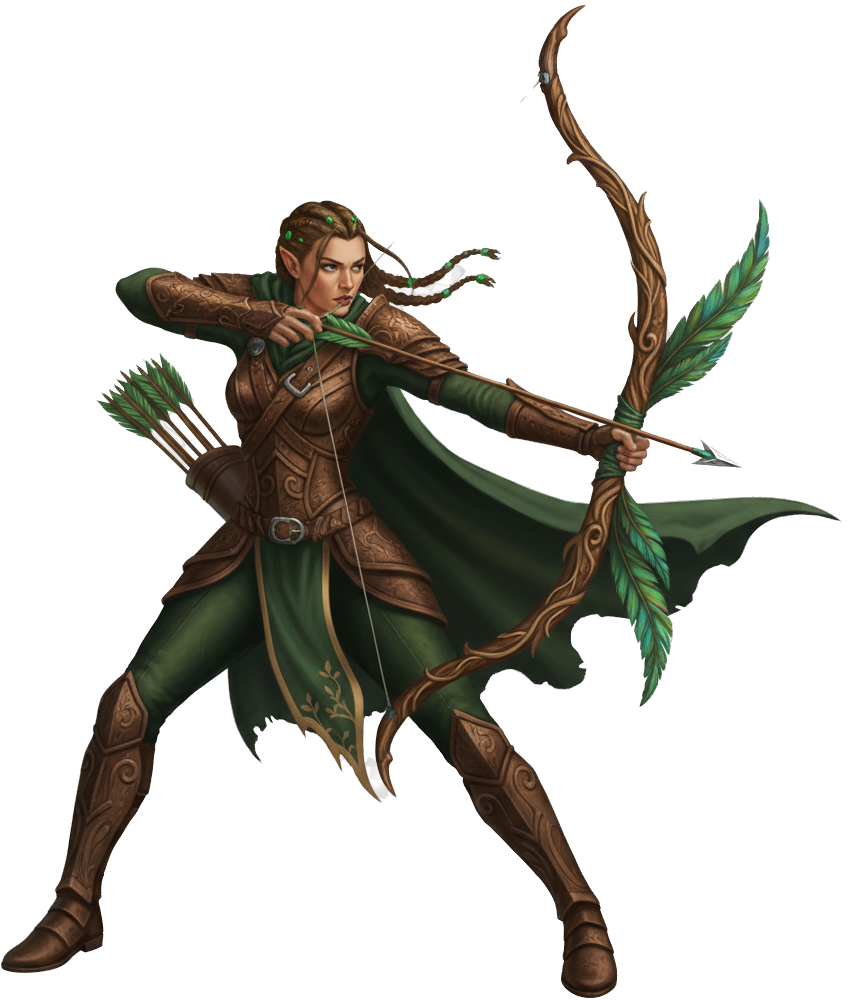
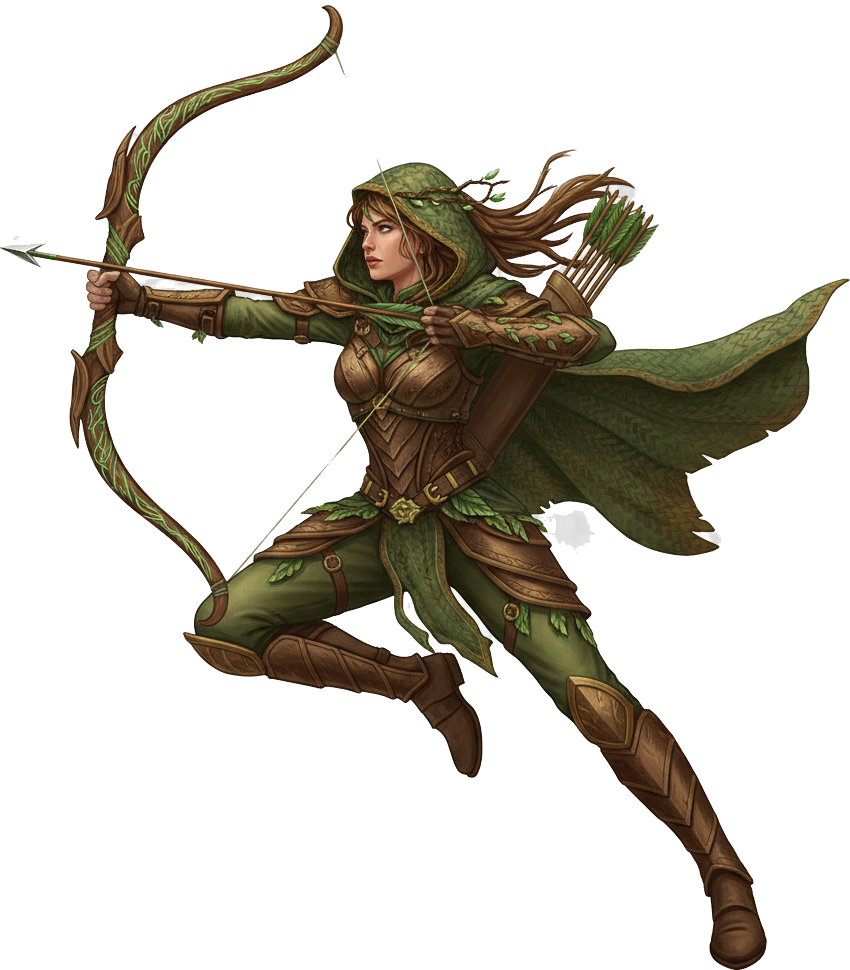
v119: Make a character2 Female version and add a M/F toggle button for that character the character male must stay the same as current character2.png image, but the new female version should be a new generate image similar baseed on the male version Be sur

diff --git a/ui.js b/ui.js
@@ -3,21 +3,11 @@ function initializeCharacterSelection() {
     const characterSlots = document.querySelectorAll('.character-slot');
 
     characterSlots.forEach(slot => {
+        // Initial gender setup
+        slot.dataset.variant = 'Male'; // Default to Male for all slots
+
         // Initial color shader application
         applyColorShader(slot);
-        
-        // Initial gender toggle visibility check
-        const initialCharacter = characters[parseInt(slot.dataset.characterIndex, 10)];
-        const genderToggle = slot.querySelector('.gender-toggle');
-        if (genderToggle) {
-             if (initialCharacter.img_female) {
-                genderToggle.style.display = 'inline-block';
-                slot.dataset.gender = 'male'; // Default
-                genderToggle.textContent = '♂';
-            } else {
-                genderToggle.style.display = 'none';
-            }
-        }
 
         // Arrow click listeners for character swapping
         const leftArrow = slot.querySelector('.left-arrow');
@@ -36,53 +26,78 @@ function initializeCharacterSelection() {
             slot.dataset.characterIndex = currentIndex;
             updateCharacterSlot(slot, characters[currentIndex], 'right');
         });
-        
+
         // Gender toggle listener
-        if (genderToggle) {
-            genderToggle.addEventListener('click', () => {
-                const currentGender = slot.dataset.gender || 'male';
-                const newGender = currentGender === 'male' ? 'female' : 'male';
-                slot.dataset.gender = newGender;
-                genderToggle.textContent = newGender === 'male' ? '♂' : '♀';
-                
-                const characterIndex = parseInt(slot.dataset.characterIndex, 10);
-                const character = characters[characterIndex];
-                
-                // Animate character image swap
-                const imageWrapper = slot.querySelector('.character-image-wrapper');
-                const oldImage = imageWrapper.querySelector('.character-image');
-                const color = slot.dataset.color;
-                
-                const newImage = document.createElement('img');
-                const baseImgSrc = newGender === 'female' ? character.img_female : character.img;
-                const cachedSrc = characterImageCache[baseImgSrc]?.[color];
-                newImage.src = cachedSrc || baseImgSrc;
-                
-                newImage.alt = character.name;
-                newImage.className = 'character-image';
-                newImage.dataset.baseHue = character.baseHue;
-                
-                newImage.style.opacity = '0';
-                imageWrapper.appendChild(newImage);
+        const genderToggle = slot.querySelector('.gender-toggle');
+        genderToggle.addEventListener('click', () => {
+            const currentIndex = parseInt(slot.dataset.characterIndex, 10);
+            const character = characters[currentIndex];
+            if (!character.variants) return;
 
-                if (!cachedSrc) {
-                    applyColorShaderToImage(newImage, color);
-                }
+            // Toggle variant
+            const currentVariant = slot.dataset.variant;
+            const newVariant = currentVariant === 'Male' ? 'Female' : 'Male';
+            slot.dataset.variant = newVariant;
 
-                setTimeout(() => {
-                    oldImage.style.opacity = '0';
-                    newImage.style.opacity = '1';
-                }, 10);
-
-                setTimeout(() => {
-                    if (oldImage.dataset.blobUrl) {
-                        URL.revokeObjectURL(oldImage.dataset.blobUrl);
-                    }
-                    oldImage.remove();
-                }, 300); // fade duration
-            });
-        }
+            // Update button text immediately
+            genderToggle.textContent = newVariant === 'Female' ? '♀' : '♂';
+            
+            // Update image with animation
+            switchCharacterVariant(slot, character, newVariant);
+        });
     });
+}
+
+function switchCharacterVariant(slot, character, newVariant) {
+    const imageWrapper = slot.querySelector('.character-image-wrapper');
+    const oldImage = imageWrapper.querySelector('.character-image');
+    const color = slot.dataset.color;
+    const genderToggle = slot.querySelector('.gender-toggle');
+
+    // Disable toggle during animation
+    genderToggle.disabled = true;
+
+    const newImgSrc = character.variants[newVariant].img;
+
+    // Create new image
+    const newImage = document.createElement('img');
+    const cachedSrc = characterImageCache[newImgSrc]?.[color];
+    newImage.src = cachedSrc || newImgSrc;
+    
+    newImage.alt = character.name;
+    newImage.className = 'character-image';
+    newImage.dataset.baseHue = character.baseHue;
+    
+    // Position new image for entry animation (fade)
+    newImage.style.opacity = '0';
+    imageWrapper.appendChild(newImage);
+
+    if (!cachedSrc) {
+        applyColorShaderToImage(newImage, color);
+    }
+    
+    // Animate old image out, new image in (cross-fade)
+    oldImage.style.transition = 'opacity 0.25s ease-in-out';
+    newImage.style.transition = 'opacity 0.25s ease-in-out';
+    
+    oldImage.style.opacity = '0';
+    setTimeout(() => {
+        newImage.style.opacity = '1';
+    }, 50);
+
+
+    // After animation is complete, clean up
+    setTimeout(() => {
+        if (oldImage.dataset.blobUrl) {
+            URL.revokeObjectURL(oldImage.dataset.blobUrl);
+        }
+        oldImage.remove();
+        
+        // Re-enable toggle
+        genderToggle.disabled = false;
+        document.dispatchEvent(new CustomEvent('relic-cursor-refresh'));
+
+    }, ANIMATION_DURATION);
 }
 
 // Set up the start overlay

diff --git a/characters.js b/characters.js
@@ -4,9 +4,12 @@ const characters = [
     { 
         name: 'Archer', 
         img: '/character2.png', 
-        img_female: '/character2_female.png',
         baseHue: 120, 
-        stats: { strength: 6, speed: 9, magic: 4, armour: 5 } 
+        stats: { strength: 6, speed: 9, magic: 4, armour: 5 },
+        variants: {
+            'Male': { img: '/character2.png' },
+            'Female': { img: '/character2_female.png' }
+        }
     },
     { name: 'Wizard', img: '/character3.png', baseHue: 60, stats: { strength: 3, speed: 6, magic: 10, armour: 3 } },
     { name: 'Valkyrie', img: '/character4.png', baseHue: 0, stats: { strength: 7, speed: 7, magic: 6, armour: 6 } }
@@ -25,19 +28,6 @@ function updateCharacterSlot(slot, character, direction) {
     const nameText = slot.querySelector('.character-name-text');
     const color = slot.dataset.color;
 
-    // Gender Toggle logic
-    const genderToggle = slot.querySelector('.gender-toggle');
-    if (character.img_female) {
-        genderToggle.style.display = 'inline-block';
-        if (!slot.dataset.gender) {
-            slot.dataset.gender = 'male'; // Default to male
-        }
-        genderToggle.textContent = slot.dataset.gender === 'male' ? '♂' : '♀';
-    } else {
-        genderToggle.style.display = 'none';
-        delete slot.dataset.gender;
-    }
-
     // Disable arrows during animation
     arrows.forEach(arrow => arrow.disabled = true);
     document.dispatchEvent(new CustomEvent('relic-cursor-refresh'));
@@ -45,11 +35,18 @@ function updateCharacterSlot(slot, character, direction) {
     // Fade out name
     nameText.classList.add('fade-out');
 
+    // Handle variants
+    let characterImgSrc = character.img;
+    if (character.variants) {
+        // If switching to a character with variants, default to Male
+        const currentVariant = slot.dataset.variant || 'Male';
+        characterImgSrc = character.variants[currentVariant].img;
+    }
+
     // Create new image
     const newImage = document.createElement('img');
-    const baseImgSrc = slot.dataset.gender === 'female' ? character.img_female : character.img;
-    const cachedSrc = characterImageCache[baseImgSrc]?.[color];
-    newImage.src = cachedSrc || baseImgSrc; // Use cached image if available
+    const cachedSrc = characterImageCache[characterImgSrc]?.[color];
+    newImage.src = cachedSrc || characterImgSrc; // Use cached image if available
     
     newImage.alt = character.name;
     newImage.className = 'character-image';
@@ -85,6 +82,15 @@ function updateCharacterSlot(slot, character, direction) {
         slot.querySelector('.magic').textContent = `Magic: ${character.stats.magic}`;
         slot.querySelector('.armour').textContent = `Armour: ${character.stats.armour}`;
         
+        // Update gender toggle visibility
+        const genderToggle = slot.querySelector('.gender-toggle');
+        if (character.variants) {
+            genderToggle.style.display = 'block';
+            genderToggle.textContent = slot.dataset.variant === 'Female' ? '♀' : '♂';
+        } else {
+            genderToggle.style.display = 'none';
+        }
+
         // Re-enable arrows
         arrows.forEach(arrow => arrow.disabled = false);
         document.dispatchEvent(new CustomEvent('relic-cursor-refresh'));
@@ -123,9 +129,11 @@ async function preloadAllCharacterImages() {
     const promises = [];
 
     for (const character of characters) {
-        const imagesToLoad = [character.img];
-        if (character.img_female) {
-            imagesToLoad.push(character.img_female);
+        const imagesToLoad = [];
+        if (character.variants) {
+            Object.values(character.variants).forEach(variant => imagesToLoad.push(variant.img));
+        } else {
+            imagesToLoad.push(character.img);
         }
 
         for (const imgSrc of imagesToLoad) {
@@ -137,8 +145,9 @@ async function preloadAllCharacterImages() {
             const loadPromise = new Promise((resolve, reject) => {
                 img.onload = () => {
                     for (const color of colors) {
-                        // Pass imgSrc to processAndCacheImage
-                        const colorPromise = processAndCacheImage(img, character, color, imgSrc)
+                        // The character data passed to processAndCacheImage needs the baseHue
+                        const characterDataForProcessing = { ...character, img: imgSrc };
+                        const colorPromise = processAndCacheImage(img, characterDataForProcessing, color)
                             .then(blobUrl => {
                                 if (blobUrl) {
                                     characterImageCache[imgSrc][color] = blobUrl;

diff --git a/index.html b/index.html
@@ -34,6 +34,7 @@
                                 <span class="stat-label"><span class="character-name-text">Warrior</span></span>
                                 <button class="arrow right-arrow">▶</button>
                             </div>
+                            <button class="gender-toggle" style="display: none;"></button>
                             <div class="stat-line strength">Strength: 9</div>
                             <div class="stat-line speed">Speed: 5</div>
                             <div class="stat-line magic">Magic: 2</div>
@@ -52,9 +53,9 @@
                             <div class="character-name-container">
                                 <button class="arrow left-arrow">◀</button>
                                 <span class="stat-label"><span class="character-name-text">Archer</span></span>
-                                <button class="gender-toggle" style="display: none;">♂</button>
                                 <button class="arrow right-arrow">▶</button>
                             </div>
+                            <button class="gender-toggle" style="display: none;"></button>
                             <div class="stat-line strength">Strength: 6</div>
                             <div class="stat-line speed">Speed: 9</div>
                             <div class="stat-line magic">Magic: 4</div>
@@ -75,6 +76,7 @@
                                 <span class="stat-label"><span class="character-name-text">Wizard</span></span>
                                 <button class="arrow right-arrow">▶</button>
                             </div>
+                            <button class="gender-toggle" style="display: none;"></button>
                             <div class="stat-line strength">Strength: 3</div>
                             <div class="stat-line speed">Speed: 6</div>
                             <div class="stat-line magic">Magic: 10</div>
@@ -95,6 +97,7 @@
                                 <span class="stat-label"><span class="character-name-text">Valkyrie</span></span>
                                 <button class="arrow right-arrow">▶</button>
                             </div>
+                            <button class="gender-toggle" style="display: none;"></button>
                             <div class="stat-line strength">Strength: 7</div>
                             <div class="stat-line speed">Speed: 7</div>
                             <div class="stat-line magic">Magic: 6</div>

diff --git a/color-shader.js b/color-shader.js
@@ -18,7 +18,7 @@ function applyColorShaderToImage(image, slotColorName) {
 
     return new Promise(resolve => {
         const process = async () => {
-            const blobUrl = await processAndCacheImage(image, { baseHue: image.dataset.baseHue }, slotColorName, image.src);
+            const blobUrl = await processAndCacheImage(image, { baseHue: image.dataset.baseHue }, slotColorName);
             if (blobUrl) {
                 if (image.dataset.blobUrl) URL.revokeObjectURL(image.dataset.blobUrl);
                 image.src = blobUrl;
@@ -35,22 +35,24 @@ function applyColorShaderToImage(image, slotColorName) {
     });
 }
 
-function processAndCacheImage(img, characterData, slotColorName, imgSrc) {
+function processAndCacheImage(img, characterData, slotColorName) {
     const baseHue = parseInt(characterData.baseHue, 10);
     const targetHue = slotColors[slotColorName];
 
-    // Special logic only for Archer, Warrior, and Valkyrie
-    if (imgSrc && (imgSrc.includes('character2') || imgSrc.includes('character2_female'))) {
+    // Added a check for the new female archer image
+    if (baseHue === 120 && (characterData.img === '/character2.png' || characterData.img === '/character2_female.png')) { 
         return selectiveRecolorArcher(img, targetHue, true);
     }
-    if (imgSrc && imgSrc.includes('character1')) {
+    if (baseHue === 240) {
         return selectiveRecolorWarrior(img, targetHue, true);
     }
-    if (imgSrc && imgSrc.includes('character4')) {
+    if (baseHue === 0) {
         return selectiveRecolorValkyrie(img, targetHue, true);
     }
     
-    // Fallback for others - no canvas processing needed
+    // For characters without special logic (like Wizard), just return null as CSS filter is fine.
+    // We only need to cache canvas-processed images.
+    // To implement hue-rotate via canvas for them too, we would add that logic here.
     return Promise.resolve(null);
 }
 

diff --git a/styles.css b/styles.css
@@ -319,7 +319,30 @@ body {
     margin: 0 0 4px;
     width: 90%;
     max-width: 200px;
-    gap: 4px;
+}
+
+.gender-toggle {
+    background: rgba(0,0,0,0.4);
+    border: 2px solid;
+    color: white;
+    font-size: 1rem;
+    font-family: 'Cinzel', serif;
+    cursor: var(--relic-cursor);
+    padding: 2px 8px;
+    border-radius: 6px;
+    margin-bottom: 4px;
+    transition: all 0.2s ease;
+    width: 40px; /* Fixed width */
+    text-align: center;
+}
+
+.gender-toggle:hover {
+    transform: scale(1.1);
+    border-color: #ffd700;
+}
+
+.gender-toggle:active {
+    transform: scale(1.05);
 }
 
 .arrow {
@@ -343,24 +366,6 @@ body {
 }
 
 .arrow:active {
-    transform: scale(1.1);
-}
-
-.gender-toggle {
-    background: rgba(255,255,255,0.1);
-    border: 1px solid rgba(255,255,255,0.3);
-    color: white;
-    font-size: 1rem;
-    cursor: var(--relic-cursor);
-    padding: 0 6px;
-    border-radius: 4px;
-    text-shadow: 1px 1px 2px rgba(0,0,0,0.8);
-    transition: all 0.2s ease;
-    flex-shrink: 0;
-}
-
-.gender-toggle:hover {
-    background: rgba(255,255,255,0.2);
     transform: scale(1.1);
 }
 
